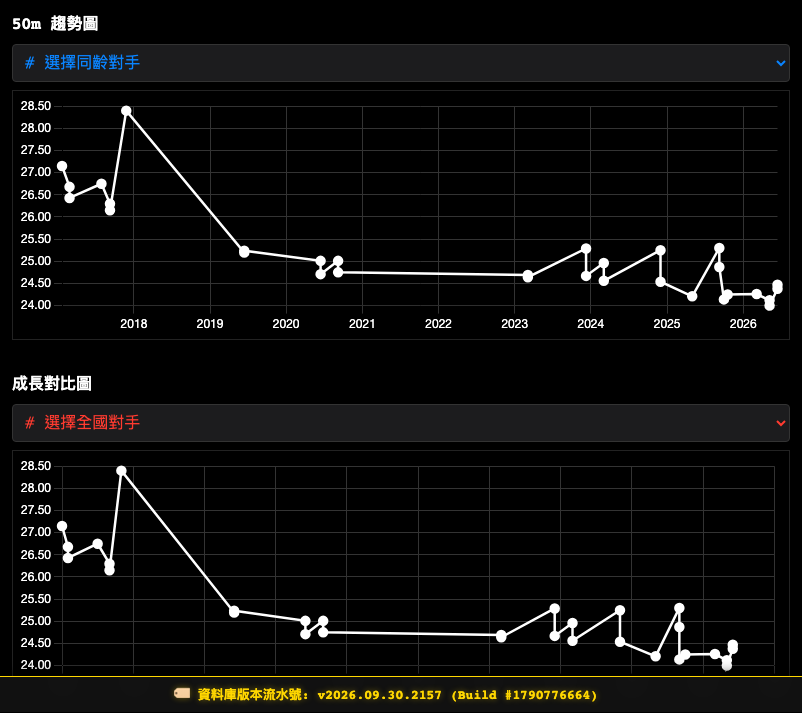
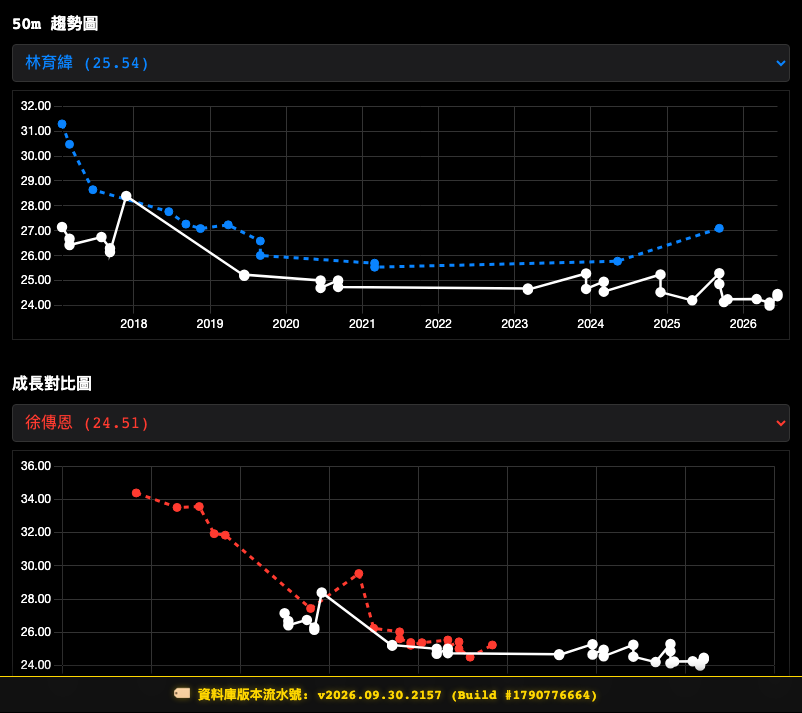
feat(guide): 全方位使用指南 8 大步驟全面升級 - 補齊蝶式達標與得獎模擬卡片、多人對決雙軸TrendChart、PB出賽明細、歷史紀錄彈窗、模式提示與同名選手出生年切換

diff --git a/index.html b/index.html
@@ -221,7 +221,7 @@
                 <div style="display:flex; align-items:center; gap:8px;">
                     <span style="font-size:20px;">💡</span>
                     <span style="font-weight:900; font-size:16px; color:#FFF; letter-spacing:0.5px;">全方位功能使用指南</span>
-                    <span id="guideStepBadge" style="font-size:11px; font-weight:800; color:#D4AF37; background:rgba(212,175,55,0.15); border:0.5px solid rgba(212,175,55,0.3); padding:2px 8px; border-radius:12px; margin-left:6px; font-family:monospace;">1 / 6</span>
+                    <span id="guideStepBadge" style="font-size:11px; font-weight:800; color:#D4AF37; background:rgba(212,175,55,0.15); border:0.5px solid rgba(212,175,55,0.3); padding:2px 8px; border-radius:12px; margin-left:6px; font-family:monospace;">1 / 8</span>
                 </div>
                 <div style="display:flex; align-items:center; gap:8px;">
                     <button onclick="closeUserGuide(true)" style="background:rgba(255,255,255,0.08); border:none; color:#A1A1AA; font-size:12px; font-weight:700; padding:6px 14px; border-radius:16px; cursor:pointer; transition:all 0.15s ease;" onmouseover="this.style.color='#FFF'; this.style.background='rgba(255,255,255,0.18)'" onmouseout="this.style.color='#A1A1AA'; this.style.background='rgba(255,255,255,0.08)'">
@@ -230,14 +230,16 @@
                 </div>
             </div>
 
-            <!-- 進度小圓點條 -->
+            <!-- 進度小圓點條 (全量 8 大步驟) -->
             <div style="display:flex; align-items:center; justify-content:center; gap:8px; padding:10px 0; background:rgba(0,0,0,0.25); border-bottom:0.5px solid #1C1C1E;">
-                <div class="guide-dot" onclick="goToGuideStep(0)" style="width:28px; height:5px; border-radius:3px; background:#D4AF37; cursor:pointer; transition:all 0.25s ease;" title="第 1 步：單一選手全能查詢"></div>
-                <div class="guide-dot" onclick="goToGuideStep(1)" style="width:8px; height:5px; border-radius:3px; background:#38383A; cursor:pointer; transition:all 0.25s ease;" title="第 2 步：個人歷年成長曲線"></div>
-                <div class="guide-dot" onclick="goToGuideStep(2)" style="width:8px; height:5px; border-radius:3px; background:#38383A; cursor:pointer; transition:all 0.25s ease;" title="第 3 步：同齡名冊與跨年次切換"></div>
-                <div class="guide-dot" onclick="goToGuideStep(3)" style="width:8px; height:5px; border-radius:3px; background:#38383A; cursor:pointer; transition:all 0.25s ease;" title="第 4 步：多人對決與雙軸比對"></div>
-                <div class="guide-dot" onclick="goToGuideStep(4)" style="width:8px; height:5px; border-radius:3px; background:#38383A; cursor:pointer; transition:all 0.25s ease;" title="第 5 步：官方賽事達標檢驗 (/std)"></div>
-                <div class="guide-dot" onclick="goToGuideStep(5)" style="width:8px; height:5px; border-radius:3px; background:#38383A; cursor:pointer; transition:all 0.25s ease;" title="第 6 步：得獎模擬分析 (/Podium Simulation)"></div>
+                <div class="guide-dot" onclick="goToGuideStep(0)" style="width:28px; height:5px; border-radius:3px; background:#D4AF37; cursor:pointer; transition:all 0.25s ease;" title="第 1 步：單一選手全能查詢 (王冠閎 蝶式)"></div>
+                <div class="guide-dot" onclick="goToGuideStep(1)" style="width:8px; height:5px; border-radius:3px; background:#38383A; cursor:pointer; transition:all 0.25s ease;" title="第 2 步：雙對手 Trend Chart 與 歷次參賽明細"></div>
+                <div class="guide-dot" onclick="goToGuideStep(2)" style="width:8px; height:5px; border-radius:3px; background:#38383A; cursor:pointer; transition:all 0.25s ease;" title="第 3 步：同齡名冊、年度最佳矩陣 與 全國排行"></div>
+                <div class="guide-dot" onclick="goToGuideStep(3)" style="width:8px; height:5px; border-radius:3px; background:#38383A; cursor:pointer; transition:all 0.25s ease;" title="第 4 步：多人對決、PB歷史明細 與 雙軸 Trend Chart"></div>
+                <div class="guide-dot" onclick="goToGuideStep(4)" style="width:8px; height:5px; border-radius:3px; background:#38383A; cursor:pointer; transition:all 0.25s ease;" title="第 5 步：官方賽事達標檢驗 (/std · 蝶式)"></div>
+                <div class="guide-dot" onclick="goToGuideStep(5)" style="width:8px; height:5px; border-radius:3px; background:#38383A; cursor:pointer; transition:all 0.25s ease;" title="第 6 步：得獎模擬分析 (/Podium Simulation · 蝶式)"></div>
+                <div class="guide-dot" onclick="goToGuideStep(6)" style="width:8px; height:5px; border-radius:3px; background:#38383A; cursor:pointer; transition:all 0.25s ease;" title="第 7 步：快捷提示、歷史回查 (🕒) 與 一鍵收合"></div>
+                <div class="guide-dot" onclick="goToGuideStep(7)" style="width:8px; height:5px; border-radius:3px; background:#38383A; cursor:pointer; transition:all 0.25s ease;" title="第 8 步：同名同姓選手多重出生年/性別切換"></div>
             </div>
 
             <!-- 內容滑動區 (可滾動) -->
@@ -2844,15 +2846,15 @@
             {
                 badge: "步驟 04 · 多人比較",
                 icon: "⚔",
-                title: "多人對決與進階雙軸比對 (輸入範例：王冠閎;王星皓;韓安齊)",
-                subtitle: "輸入多位選手姓名，即刻啟動真實成績並排對決、PB秒差計算與雙軸 Trend Chart",
+                title: "多人對決、PB出賽明細 與 雙軸 Trend Chart (代表範例：王冠閎;王星皓;韓安齊 · 蝶式)",
+                subtitle: "輸入多位選手姓名，即刻啟動真實成績並排對決、PB秒差計算、個人歷年明細與雙軸 Trend Chart",
                 bullets: [
                     "<b>輸入範例（請見上方示範框）</b>：在搜尋框鍵入 <code>王冠閎;王星皓;韓安齊</code>（多位選手以分號 <code>;</code> 或空格分隔皆可），點擊查詢即刻開啟多人橫向對決儀表板！",
-                    "<b>真實系統對決數據呈現</b>：橫向自動比對各選手 PB，自動計算並標註領先/落後秒差（如 <code>王星皓 57.58</code>、<code>王冠閎 1:01.55 (+3.97s)</code>、<code>韓安齊 1:04.26 (+6.68s)</code>）。",
-                    "<b>多人同圖雙軸 Trend Chart</b>：將多名選手的歷年成長曲線直接疊加在同一張圖表中！",
-                    "<b>雙重維度切換開關</b>：",
-                    "&nbsp;&nbsp;• <b>「🎂 同年齡歲數對齊 (Age-aligned)」</b>：將橫軸對齊為選手真實歲數（如比對大家都在 14 歲、18 歲時誰更具爆發力），跨越出生年限制！",
-                    "&nbsp;&nbsp;• <b>「📅 實際比賽日期 (Absolute Date)」</b>：按自然歷史時間軸排序，比對歷次同場競技的真實交手勝負！"
+                    "<b>真實系統對決數據呈現（蝶式代表）</b>：橫向自動比對各選手 PB，自動計算並標註領先/落後秒差（如 <code>王冠閎 24.00 (金牌最快)</code>、<code>王星皓 24.92 (+0.92s)</code>、<code>韓安齊 28.11 (+4.11s)</code>）。",
+                    "<b>👉 點擊選手 PB 秒數：展開該選手專屬歷年出賽明細大表</b>：點擊選手姓名旁的出場場次（如 31場 / 18場 / 6場），即可在該列下方就地展開該選手在此項目的歷次比賽日期、大會全名與秒數！",
+                    "<b>👉 點擊項目距離：展開多人同圖雙軸 Trend Chart 折線圖</b>：將多名選手的歷年成長曲線直接疊加在同一張圖表中！附帶雙重維度切換開關：",
+                    "&nbsp;&nbsp;• <b>「🎂 同年齡歲數對齊 (Age-aligned)」vs「📅 實際比賽日期 (Absolute Date)」</b>：跨出生年比對大家都在相同年齡時的速度與爆發力！",
+                    "&nbsp;&nbsp;• <b>「⏱ 比賽成績 (Time)」vs「⚡ 相對秒差 (Gap / Delta)」</b>：即時將領先標竿設為 0.00s，比對各選手歷年與第一名的秒差演變！"
                 ],
                 previewHtml: `
                     <!-- 輸入範例高亮示意框 -->
@@ -2865,22 +2867,45 @@
                         <span style="background:#38BDF8; color:#000; font-size:12px; font-weight:800; padding:5px 12px; border-radius:8px;">點擊「查詢」➔</span>
                     </div>
 
-                    <!-- 100% 真實三位選手並排對決看板特寫截圖 -->
-                    <div style="border:1px solid #27272A; border-radius:14px; overflow:hidden; box-shadow:0 8px 24px rgba(0,0,0,0.6);">
-                        <img src="/static/guide/guide_step4_multi_headtohead.png" alt="真實三人對決卡片" style="width:100%; height:auto; display:block;" />
+                    <!-- 100% 真實三人蝶式並排對決看板特寫截圖 -->
+                    <div style="margin-bottom:12px; border:1px solid #27272A; border-radius:14px; overflow:hidden; box-shadow:0 8px 24px rgba(0,0,0,0.6);">
+                        <div style="background:#09090B; padding:8px 12px; border-bottom:0.5px solid #222; display:flex; align-items:center; justify-content:space-between;">
+                            <span style="font-size:12px; font-weight:800; color:#D4AF37;">⚔ 功能 A：多人橫向並排對決大表 (蝶式代表)</span>
+                            <span style="font-size:10px; color:#A1A1AA;">王冠閎 / 王星皓 / 韓安齊 PB 與秒差</span>
+                        </div>
+                        <img src="/static/guide/guide_step4_multi_butterfly_table.png" alt="真實三人蝶式對決卡片" style="width:100%; height:auto; display:block;" />
+                    </div>
+
+                    <!-- 100% 真實點擊 PB 展開單一選手出賽明細大表 -->
+                    <div style="margin-bottom:12px; border:1px solid #30D158; border-radius:14px; overflow:hidden; box-shadow:0 8px 24px rgba(0,0,0,0.6);">
+                        <div style="background:#09090B; padding:8px 12px; border-bottom:0.5px solid #222; display:flex; align-items:center; justify-content:space-between;">
+                            <span style="font-size:12px; font-weight:800; color:#30D158;">📋 功能 B：點擊選手 PB 展開個人歷年出賽明細 (王冠閎 31場全記錄)</span>
+                            <span style="font-size:10px; color:#A1A1AA;">逐筆列出日期、秒數與賽事名稱</span>
+                        </div>
+                        <img src="/static/guide/guide_step4_multi_pb_history.png" alt="真實多人模式下展開選手出賽明細" style="width:100%; height:auto; display:block;" />
+                    </div>
+
+                    <!-- 100% 真實多人同圖雙軸 Trend Chart 特寫截圖 -->
+                    <div style="border:1px solid #0A84FF; border-radius:14px; overflow:hidden; box-shadow:0 8px 24px rgba(0,0,0,0.6);">
+                        <div style="background:#09090B; padding:8px 12px; border-bottom:0.5px solid #222; display:flex; align-items:center; justify-content:space-between;">
+                            <span style="font-size:12px; font-weight:800; color:#38BDF8;">📈 功能 C：多人同圖雙軸 Trend Chart (歲數 vs 日期對比、成績 vs 秒差切換)</span>
+                            <span style="font-size:10px; color:#A1A1AA;">三色曲線交鋒：藍點王冠閎 / 紅三角王星皓 / 綠方塊韓安齊</span>
+                        </div>
+                        <img src="/static/guide/guide_step4_multi_trend_chart.png" alt="真實多人雙軸 Trend Chart" style="width:100%; height:auto; display:block;" />
                     </div>
                 `
             },
             {
                 badge: "步驟 05 · 達標檢驗",
                 icon: "🎯",
-                title: "官方賽事達標檢驗 (/std) (輸入範例：王冠閎/std)",
+                title: "官方賽事達標檢驗 (/std) (代表範例：王冠閎/std · 蝶式)",
                 subtitle: "自動鎖定組別，精確比對五大賽事標準，附帶規程正本頁碼直達",
                 bullets: [
                     "<b>輸入範例（請見上方示範框）</b>：在搜尋框鍵入 <code>王冠閎/std</code>（或鍵入 <code>/</code> 從自動完成選單中點選），點擊查詢即刻開啟達標檢驗！",
+                    "<b>100% 蝶式完整項目卡片</b>：完整涵蓋 50m 蝶式 (24.00)、100m 蝶式 (51.90)、200m 蝶式 (1:54.44 全國紀錄)！",
                     "<b>自動年齡鎖定</b>：依照選手出生年自動精確判定國小、國中、高中或公開組門檻，免手動切換。",
                     "<b>五大頂尖大賽標準庫</b>：同步比對全國小學、總統盃、全中運、全大運、全運會官方參賽門檻。",
-                    "<b>直觀燈號與規程直達</b>：藍色 <code>🔵 -XX.XXs (已達標)</code>、紅色 <code>🔴 +XX.XXs (未達標)</code>，表格上方更附帶官方規程 PDF 原文連結與頁碼標注（如 <code>114年手冊第15頁規範</code>），大會稽核零爭議！"
+                    "<b>直觀燈號與規程直達</b>：藍色 <code>🔵 -XX.XXs (已達標)</code>、紅色 <code>🔴 +XX.XXs (未達標)</code>，表格上方更附帶官方規程 PDF 原文連結與手冊頁碼標注（如 <code>114年手冊第15頁規範</code>），大會稽核零爭議！"
                 ],
                 previewHtml: `
                     <!-- 輸入範例高亮示意框 -->
@@ -2893,24 +2918,25 @@
                         <span style="background:#30D158; color:#000; font-size:12px; font-weight:800; padding:5px 12px; border-radius:8px;">點擊「查詢」➔</span>
                     </div>
 
-                    <!-- 100% 真實達標檢驗畫面特寫截圖 -->
+                    <!-- 100% 真實蝶式達標檢驗完整卡片特寫截圖 -->
                     <div style="border:1px solid #27272A; border-radius:14px; overflow:hidden; box-shadow:0 8px 24px rgba(0,0,0,0.6);">
-                        <img src="/static/guide/guide_step5_std_check.png" alt="真實五大賽事達標檢驗" style="width:100%; height:auto; display:block;" />
+                        <img src="/static/guide/guide_step5_std_butterfly.png" alt="真實蝶式五大賽事達標檢驗卡片" style="width:100%; height:auto; display:block;" />
                     </div>
                 `
             },
             {
                 badge: "步驟 06 · 頒獎台分析",
                 icon: "🏆",
-                title: "得獎模擬分析 (/Podium Simulation) (輸入範例：王冠閎/Podium Simulation)",
+                title: "得獎模擬分析 (/Podium Simulation) (代表範例：王冠閎/Podium Simulation · 蝶式)",
                 subtitle: "16 大全國賽最近 3 年 1、3、8 名橫向比對，精準預估決賽與頒獎台排位",
                 bullets: [
                     "<b>輸入範例（請見上方示範框）</b>：在搜尋框鍵入 <code>王冠閎/Podium Simulation</code>，點擊查詢即刻開啟得獎模擬！",
-                    "<b>16 大全國長水道錦標賽自由切換</b>：涵蓋全中運、全運會、全國小學、總統盃、全大運等重要大賽，卡片切換連動全球更新。",
+                    "<b>100% 蝶式完整項目卡片</b>：涵蓋 50m、100m、200m 蝶式全項目，並精確對齊大專運動會 (全大運 · 公開組)！",
+                    "<b>16 大全國長水道錦標賽自由切換</b>：涵蓋全中運、全運會、全國小學、總統盃、全大運等重要大賽，卡片右上角下拉選單隨選即換。",
                     "<b>最近 3 屆（3 年）門檻精簡對齊</b>：橫向呈現各年度第 1 名 (🥇 金牌)、第 3 名 (🥉 頒獎台銅牌門檻) 與第 8 名 (🎖 晉級決賽門檻) 秒數。",
                     "<b>精簡清晰名次分析</b>：",
-                    "&nbsp;&nbsp;• <b>前三名</b>：頒發金銀銅牌榮譽徽章（<code>🥇 預估第 1 名 (金牌)</code>、<code>🥈 預估第 2 名 (銀牌)</code>、<code>🥉 預估第 3 名 (銅牌)</code>）。",
-                    "&nbsp;&nbsp;• <b>進決賽 (第 4~8 名)</b>：標示 <code>🔵 預估第 N 名</code> 與距頒獎台差距（如 <code>🔵 預估第 5 名 · 距頒獎台 +2.12s</code>）。",
+                    "&nbsp;&nbsp;• <b>前三名</b>：頒發金銀銅牌榮譽徽章（如 <code>🥇 預估第 1 名 (金牌) · 領先金牌 -1.65s</code>、<code>🥈 預估第 2 名 (銀牌)</code>）。",
+                    "&nbsp;&nbsp;• <b>進決賽 (第 4~8 名)</b>：標示 <code>🔵 預估第 N 名</code> 與距頒獎台差距。",
                     "&nbsp;&nbsp;• <b>未進決賽 (第 9 名及以後)</b>：簡潔標示 <code>🔴 未進決賽</code> 與距決賽門檻差距，激發訓練目標！"
                 ],
                 previewHtml: `
@@ -2924,9 +2950,61 @@
                         <span style="background:#FFD700; color:#000; font-size:12px; font-weight:800; padding:5px 12px; border-radius:8px;">點擊「查詢」➔</span>
                     </div>
 
-                    <!-- 100% 真實得獎模擬 3 年比對特寫截圖 -->
+                    <!-- 100% 真實得獎模擬 3 年比對特寫截圖 (蝶式代表卡片) -->
                     <div style="border:1px solid #27272A; border-radius:14px; overflow:hidden; box-shadow:0 8px 24px rgba(0,0,0,0.6);">
-                        <img src="/static/guide/guide_step6_podium_simulation.png" alt="真實得獎模擬卡片" style="width:100%; height:auto; display:block;" />
+                        <img src="/static/guide/guide_step6_podium_butterfly.png" alt="真實蝶式得獎模擬卡片" style="width:100%; height:auto; display:block;" />
+                    </div>
+                `
+            },
+            {
+                badge: "步驟 07 · 便捷工具",
+                icon: "⚡",
+                title: "快捷模式提示 (/)、歷史紀錄回查 (🕒) 與 一鍵收合工具",
+                subtitle: "搜尋框指令快捷自動完成、歷史查詢紀錄即時回溯，以及一鍵折疊所有大表",
+                bullets: [
+                    "<b>👉 模式選單自動提示（輸入「/」）</b>：在搜尋框輸入 <code>/</code>，系統自動跳出模式選單提示（包含 <code>/std 參賽標準檢驗</code> 與 <code>/Podium Simulation 得獎模擬</code>），點擊即可自動填入，免手動記憶指令！",
+                    "<b>👉 頂部「🕒」歷史查詢紀錄彈窗</b>：點擊搜尋列左側黃色時鐘 <code>🕒</code> 圖示，即可即時展開歷史查詢面板，記錄最近 30 筆選手查詢紀錄，點選姓名立即秒查回溯，並附帶垃圾桶圖示支援一鍵刪除個別紀錄！",
+                    "<b>👉 工具列「收合」按鈕</b>：畫面展開多個 Trend Chart、明細表與同齡名冊後，點擊頂部工具列右側「收合」按鈕，能瞬間將畫面所有展開的卡片一次收折乾淨！",
+                    "<b>👉 工具列「重置」按鈕</b>：遇到瀏覽器快取異常或欲重新下載最新雲端資料庫時，點擊「重置」即可一鍵清空 IndexedDB 快取並重新同步。"
+                ],
+                previewHtml: `
+                    <!-- 100% 真實功能 A: 搜尋框輸入 / 即時彈出模式提示 -->
+                    <div style="margin-bottom:12px; border:1px solid #D4AF37; border-radius:14px; overflow:hidden; box-shadow:0 8px 24px rgba(0,0,0,0.6);">
+                        <div style="background:#09090B; padding:8px 12px; border-bottom:0.5px solid #222; display:flex; align-items:center; justify-content:space-between;">
+                            <span style="font-size:12px; font-weight:800; color:#D4AF37;">⚡ 工具 A：輸入「/」模式快捷自動完成選單提示</span>
+                            <span style="font-size:10px; color:#A1A1AA;">即時點選 /std 與 /Podium Simulation</span>
+                        </div>
+                        <img src="/static/guide/guide_feature_mode_autocomplete.png" alt="真實模式自動完成提示選單" style="width:100%; height:auto; display:block;" />
+                    </div>
+
+                    <!-- 100% 真實功能 B: 頂部 🕒 歷史紀錄彈窗清單 -->
+                    <div style="border:1px solid #8E8E93; border-radius:14px; overflow:hidden; box-shadow:0 8px 24px rgba(0,0,0,0.6);">
+                        <div style="background:#09090B; padding:8px 12px; border-bottom:0.5px solid #222; display:flex; align-items:center; justify-content:space-between;">
+                            <span style="font-size:12px; font-weight:800; color:#FFF;">🕒 工具 B：頂部歷史查詢紀錄彈窗面板</span>
+                            <span style="font-size:10px; color:#A1A1AA;">支援快速點選回查與垃圾桶刪除</span>
+                        </div>
+                        <img src="/static/guide/guide_feature_history_modal.png" alt="真實歷史查詢紀錄彈窗" style="width:100%; height:auto; display:block;" />
+                    </div>
+                `
+            },
+            {
+                badge: "步驟 08 · 特殊情境",
+                icon: "👥",
+                title: "同名同姓選手多重出生年 / 性別即時切換下拉選單",
+                subtitle: "資料庫同名同姓選手自動產生黃色切換選單，一鍵跨年次與跨性別切換",
+                bullets: [
+                    "<b>智慧多年次偵測</b>：當搜尋的選手姓名在資料庫中存在多個不同的出生年次時（如「陳柏宇」有 2012年次、2010年次等多位同名選手），系統會在頂部工具列及結果卡片內自動生成<b>黃色出生年切換下拉選單</b>！",
+                    "<b>隨選即換，零延遲更新</b>：使用者只需在下拉選單中點選指定年次（如 <code>2012年次 ∨</code>），全頁五大泳式看板、PB、WA 積分與同齡排行立即動態切換至該位選手！",
+                    "<b>同名跨性別自動識別</b>：若同一姓名在資料庫中同時存在男生與女生選手紀錄（如「陳品言」），系統會同步提供藍色性別下拉選單（<code>男生 / 女生</code>）供即時切換，確保每一位同名選手的紀錄精準分流！"
+                ],
+                previewHtml: `
+                    <!-- 100% 真實功能特寫：同名選手出生年切換下拉選單 (以陳柏宇為例) -->
+                    <div style="border:1px solid #FFD700; border-radius:14px; overflow:hidden; box-shadow:0 8px 24px rgba(0,0,0,0.6);">
+                        <div style="background:#09090B; padding:8px 12px; border-bottom:0.5px solid #222; display:flex; align-items:center; justify-content:space-between;">
+                            <span style="font-size:12px; font-weight:800; color:#FFD700;">👥 特殊情境特寫：頂部搜尋列「出生年下拉切換選單」(以陳柏宇為例)</span>
+                            <span style="font-size:10px; color:#A1A1AA;">自動識別同名選手並提供 2012年次等跨年次切換</span>
+                        </div>
+                        <img src="/static/guide/guide_feature_birth_select.png" alt="真實同名同姓出生年切換選單" style="width:100%; height:auto; display:block;" />
                     </div>
                 `
             }
